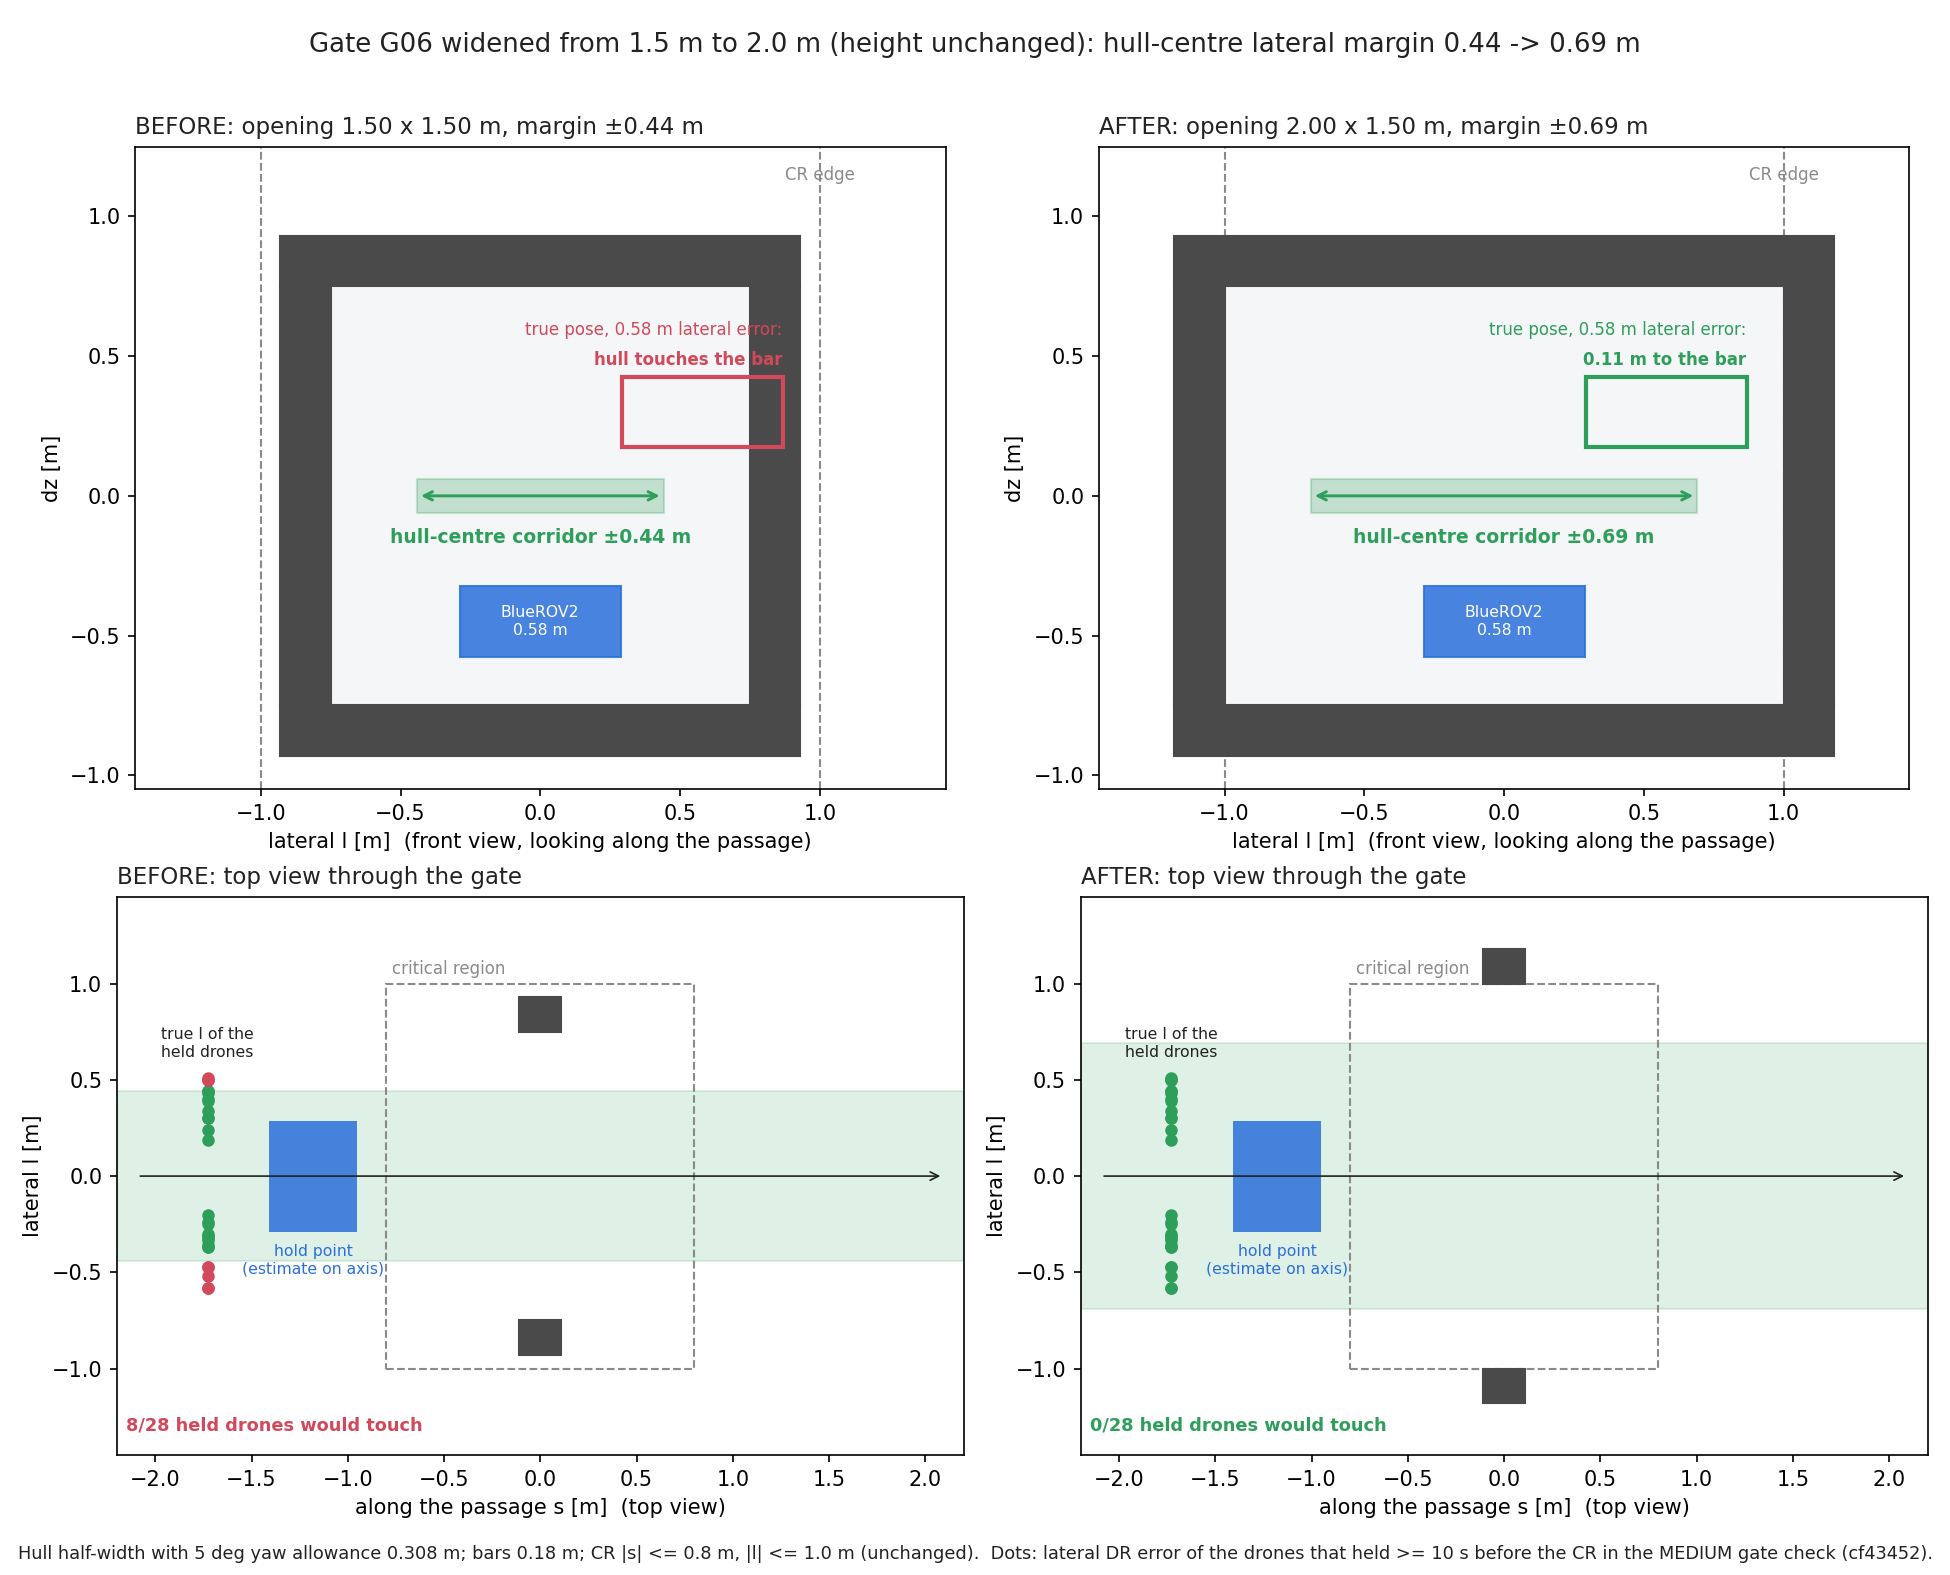
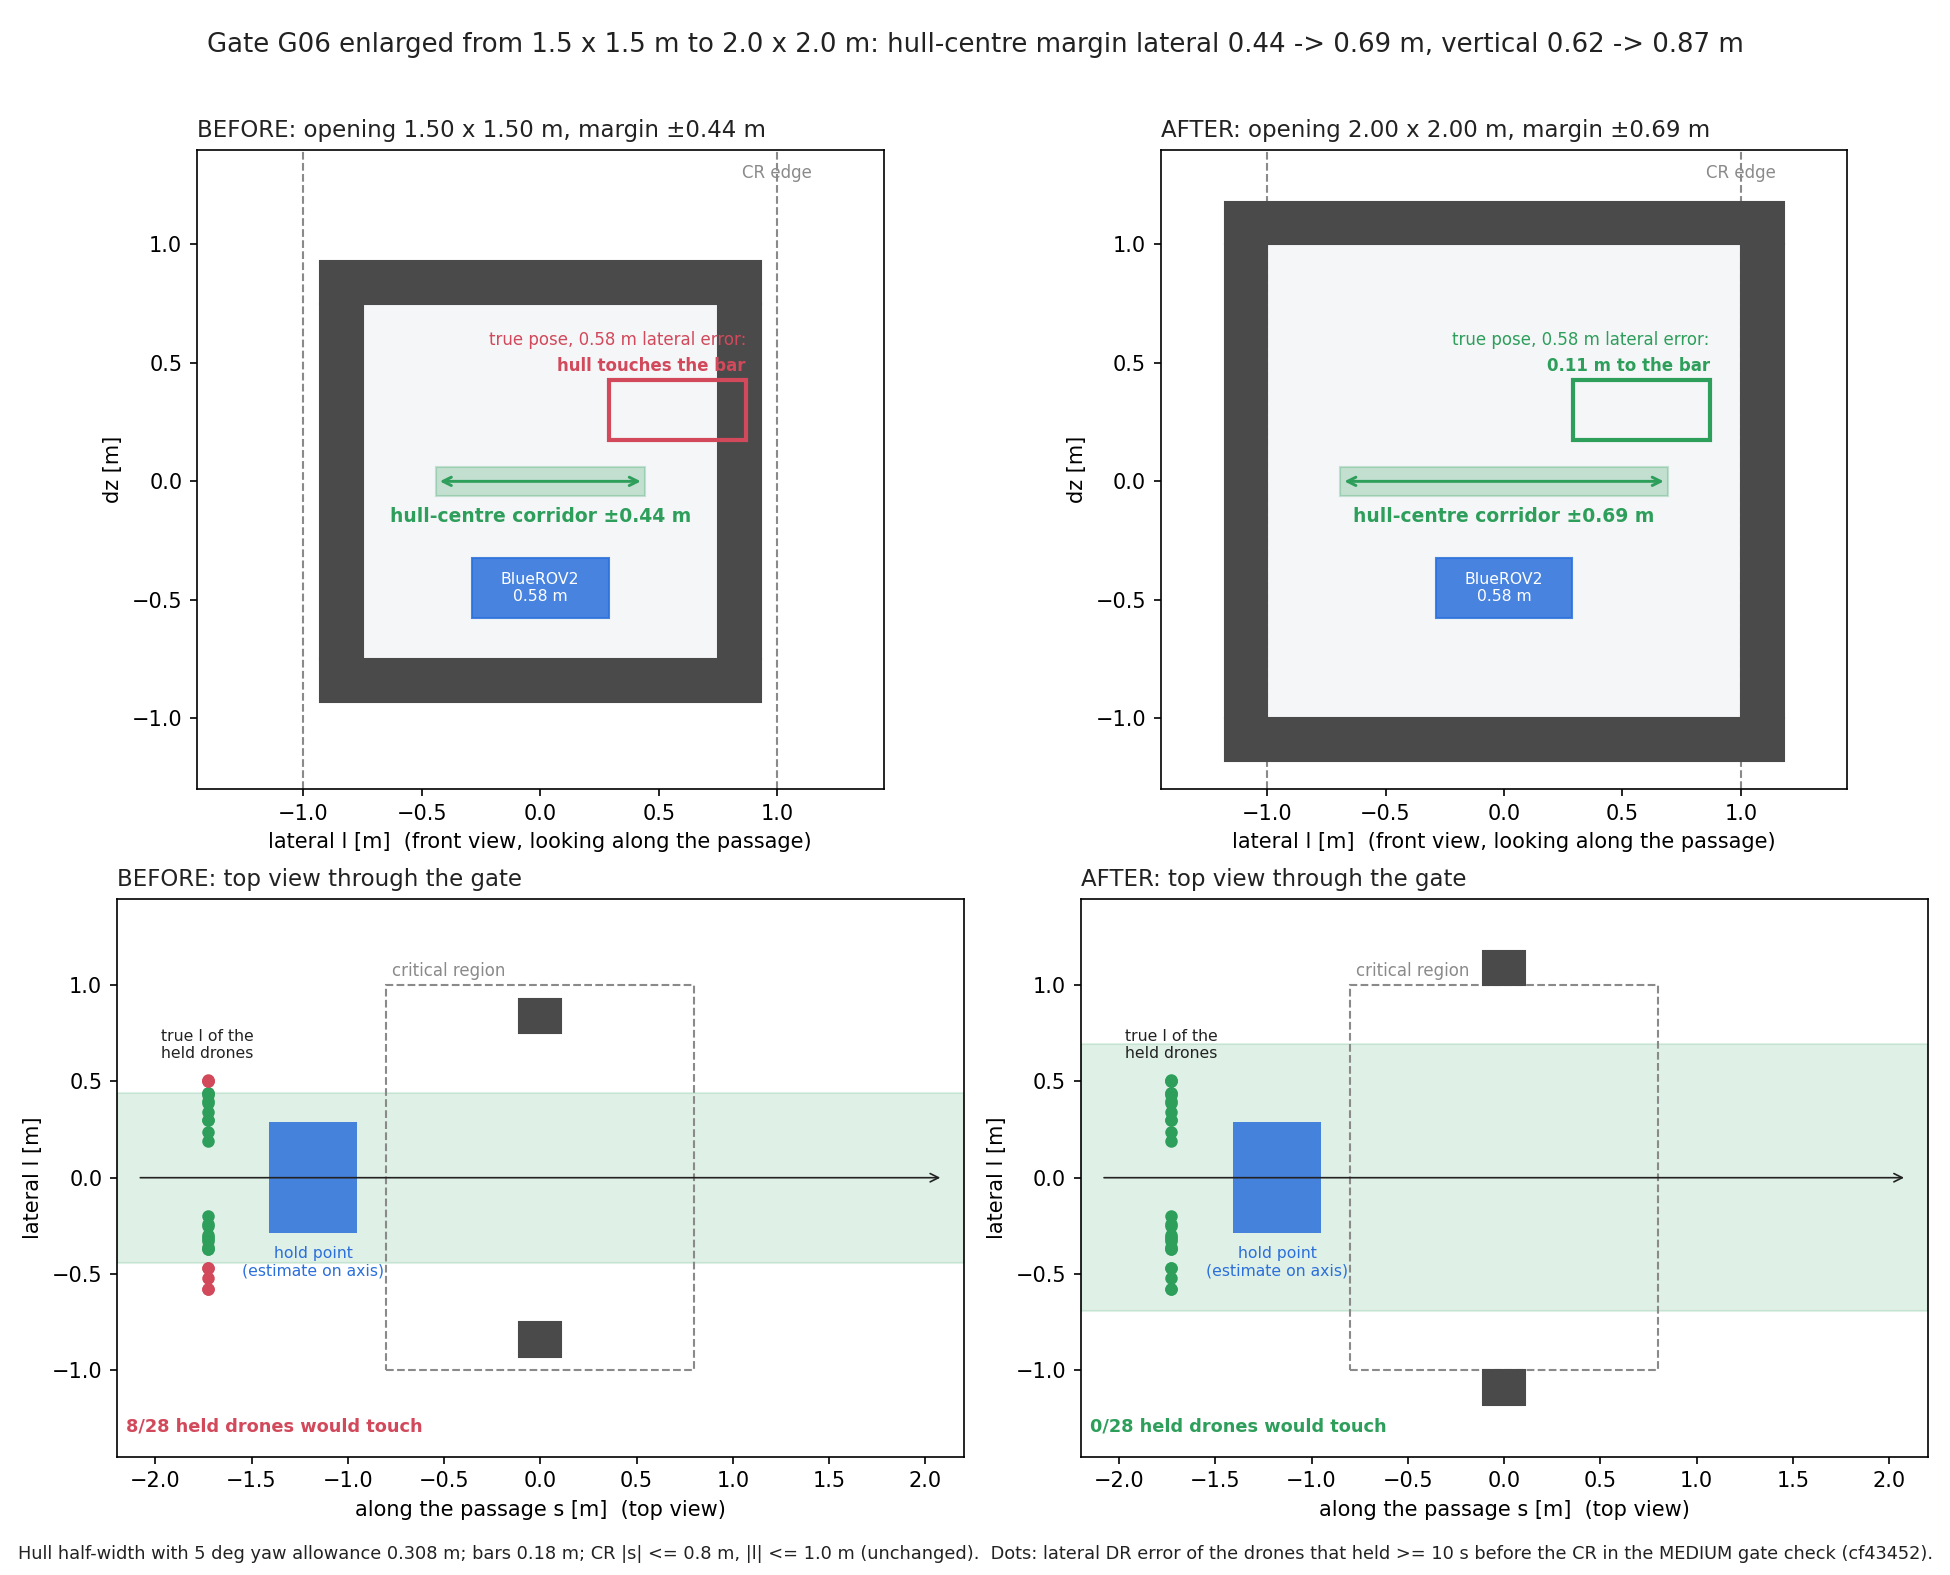
Enlarge gate G06 to 2.0 x 2.0 m and capture it in the simulation
The opening is now 2.0 m high as well: the vertical margin of the hull centre
grows from 0.62 to 0.87 m and the opening ends at both edges of the critical
region (cr_half_width = cr_half_height = 1.0 m), so the mutex geometry stays
unchanged. snap_gate_sim.py renders one HoloOcean frame of the spawned gate with
a BlueROV2 at its centre.

diff --git a/scripts/make_gate_width_figure.py b/scripts/make_gate_width_figure.py
@@ -33,7 +33,7 @@ def _front(ax, g, err, title):
     cw = DEFAULT.gate.cr_half_width
     for x in (-cw, cw):
         ax.axvline(x, color=CR, ls="--", lw=1.0, zorder=1)
-    ax.text(cw, 1.13, "CR edge", color=CR, fontsize=8, ha="center")
+    ax.text(cw, 1.28, "CR edge", color=CR, fontsize=8, ha="center")
     ax.add_patch(Rectangle((-margin, -0.06), 2 * margin, 0.12, color=OK, alpha=0.25, zorder=1))
     ax.annotate("", xy=(margin, 0.0), xytext=(-margin, 0.0), arrowprops=dict(arrowstyle="<->", color=OK, lw=1.4))
     ax.text(0.0, -0.17, f"hull-centre corridor ±{margin:.2f} m", color=OK, fontsize=9, ha="center", weight="bold")
@@ -48,7 +48,7 @@ def _front(ax, g, err, title):
             color=c, fontsize=8, ha="right", weight="bold")
     ax.set_title(title, fontsize=11, color=INK, loc="left")
     ax.set_xlim(-1.45, 1.45)
-    ax.set_ylim(-1.05, 1.25)
+    ax.set_ylim(-1.3, 1.4)
     ax.set_aspect("equal")
     ax.set_xlabel("lateral l [m]  (front view, looking along the passage)")
     ax.set_ylabel("dz [m]")
@@ -97,8 +97,10 @@ def main(out, holds=None):
         m = g.inner_width / 2.0 - HULL_LAT_M
         _front(axs[0, col], g, worst, f"{tag}: opening {g.inner_width:.2f} x {g.inner_height:.2f} m, margin ±{m:.2f} m")
         _top(axs[1, col], g, errs, f"{tag}: top view through the gate")
-    fig.suptitle("Gate G06 widened from 1.5 m to 2.0 m (height unchanged): hull-centre lateral margin "
-                 f"{old.inner_width / 2 - HULL_LAT_M:.2f} -> {new.inner_width / 2 - HULL_LAT_M:.2f} m",
+    fig.suptitle(f"Gate G06 enlarged from {old.inner_width:.1f} x {old.inner_height:.1f} m to {new.inner_width:.1f} x "
+                 f"{new.inner_height:.1f} m: hull-centre margin lateral {old.inner_width / 2 - HULL_LAT_M:.2f} -> "
+                 f"{new.inner_width / 2 - HULL_LAT_M:.2f} m, vertical {old.inner_height / 2 - HULL_HALF[2]:.2f} -> "
+                 f"{new.inner_height / 2 - HULL_HALF[2]:.2f} m",
                  fontsize=12.5, color=INK)
     fig.text(0.5, 0.01, f"Hull half-width with 5 deg yaw allowance {HULL_LAT_M:.3f} m; bars 0.18 m; CR |s| <= "
              f"{DEFAULT.gate.cr_half_len} m, |l| <= {DEFAULT.gate.cr_half_width} m (unchanged).  Dots: lateral DR error "

diff --git a/scripts/snap_gate_sim.py b/scripts/snap_gate_sim.py
@@ -1,0 +1,57 @@
+"""One HoloOcean frame of gate G06 as spawned (arena_bridge.GATE_INNER_SIZE_M), with a BlueROV2 in the opening for scale.
+
+The camera drone holds 4.5 m before the gate on its axis (camera on its nose, looking along the passage); a second
+drone holds at the gate centre.  Low priority, one engine, closed at the end.  Usage: snap_gate_sim.py OUT.png
+"""
+
+import math
+import sys
+
+import cv2
+import numpy as np
+import psutil
+
+from holo_fleet.arena_bridge import HORSESHOE_TRACK, load_arena_gates
+from holo_fleet.sim.holo_env import HoloFleetSim
+from holo_fleet.sim.spec import bench_spec
+
+
+def _nice():
+    for p in [psutil.Process()] + psutil.Process().children(recursive=True):
+        try:
+            p.nice(psutil.BELOW_NORMAL_PRIORITY_CLASS)
+        except psutil.Error:
+            pass
+
+
+def main(out):
+    _nice()
+    g6 = {g.gate_id: g for g in load_arena_gates(HORSESHOE_TRACK)}["G06"]
+    yaw = math.degrees(math.atan2(g6.axis[1], g6.axis[0]))
+    cam = g6.center - 4.5 * np.asarray(g6.axis, float)
+    inside = np.asarray(g6.center, float)
+    spec = bench_spec("snap_gate", [cam, inside], yaws=[yaw, yaw], gate_ids=("G06",), camera_drone=0)
+    spec.chase_offset = (0.35, 0.0, 0.25)
+    sim = HoloFleetSim(spec, headless=True)
+    sim.start()
+    _nice()
+    try:
+        for _ in range(15):
+            sim.pin(sim.names[0], cam, (0, 0, yaw))
+            sim.pin(sim.names[1], inside, (0, 0, yaw))
+            sim.step({n: None for n in sim.names}, 0.1)
+        img = sim.image("ChaseCamera")
+        if img is None:
+            raise RuntimeError("no camera frame")
+        img = np.ascontiguousarray(img[:, :, :3])
+        cv2.putText(img, f"G06 {g6.inner_width:.1f} x {g6.inner_height:.1f} m opening, BlueROV2 at the gate centre "
+                    "(camera 4.5 m before the gate)", (12, img.shape[0] - 14), cv2.FONT_HERSHEY_SIMPLEX, 0.5, (255, 255, 255), 1,
+                    cv2.LINE_AA)
+        cv2.imwrite(out, img)
+        print(out, img.shape)
+    finally:
+        sim.close()
+
+
+if __name__ == "__main__":
+    main(sys.argv[1])

diff --git a/holo_fleet/arena_bridge.py b/holo_fleet/arena_bridge.py
@@ -20,11 +20,11 @@ import numpy as np
 DEFAULT_ARENA_ROOT = Path.home() / "Desktop" / "HoloDroneCompetition"
 HORSESHOE_TRACK = "marine_race_arena/tracks/marine_race_horseshoe_bay.json"
 # Inner opening (width, height) [m] of the gates the scenarios spawn, overriding the track (1.5 x 1.5 m).  G06 is
-# 2.0 m wide: the free lateral margin of the hull centre grows from 0.44 to 0.69 m, above the 0.30-0.58 m lateral
-# dead-reckoning error measured at the gate under MEDIUM (raw_gate_check), and the opening still ends at the edge
-# of the critical region (cr_half_width 1.0 m), so the mutex geometry is unchanged.  The perception map and the
-# spawned bars are built from the same overridden config.
-GATE_INNER_SIZE_M = {"G06": (2.0, 1.5)}
+# 2.0 x 2.0 m: the free lateral margin of the hull centre grows from 0.44 to 0.69 m, above the 0.30-0.58 m lateral
+# dead-reckoning error measured at the gate under MEDIUM (raw_gate_check), the vertical one from 0.62 to 0.87 m, and
+# the opening still ends at the edges of the critical region (cr_half_width = cr_half_height = 1.0 m), so the mutex
+# geometry is unchanged.  The perception map and the spawned bars are built from the same overridden config.
+GATE_INNER_SIZE_M = {"G06": (2.0, 2.0)}
 
 
 def arena_root() -> Path:

diff --git a/tests/test_gate_opening.py b/tests/test_gate_opening.py
@@ -18,7 +18,7 @@ def _side_bar_inner_edges(g):
 
 def test_the_map_has_the_widened_opening():
     g = load_arena_gates(HORSESHOE_TRACK, ["G06"])[0]
-    assert (g.inner_width, g.inner_height) == GATE_INNER_SIZE_M["G06"] == (2.0, 1.5)
+    assert (g.inner_width, g.inner_height) == GATE_INNER_SIZE_M["G06"] == (2.0, 2.0)
     assert np.allclose(_side_bar_inner_edges(g), g.inner_width / 2.0, atol=1e-6)
 
 
@@ -40,5 +40,6 @@ def test_the_track_opening_is_still_available():
 def test_the_opening_ends_at_the_critical_region_and_widens_the_hull_margin():
     g = load_arena_gates(HORSESHOE_TRACK, ["G06"])[0]
     assert g.inner_width / 2.0 <= DEFAULT.gate.cr_half_width + 1e-9    # a drone in the opening is in the CR
+    assert g.inner_height / 2.0 <= DEFAULT.gate.cr_half_height + 1e-9
     assert g.inner_width / 2.0 - HULL_LAT_M > 0.58                     # MEDIUM lateral DR error at the gate
     assert 1.5 / 2.0 - HULL_LAT_M < 0.45

diff --git a/holo_fleet/sim/scenarios.py b/holo_fleet/sim/scenarios.py
@@ -359,7 +359,7 @@ def _gate_mission(name: str, template_name: str, duration: float, current: Curre
 def gate_single(cfg: FleetConfig = DEFAULT) -> Scenario:
     return _gate_mission("gate_single", "triangle", 80.0, _uniform((0.0, -0.05, 0.0)), cfg,
                          title="P2: one at a time through arena gate G06",
-                         desc="3 drones in triangle reach Marine Race Arena gate G06 (only this gate spawned, 2.0 x 1.5 m "
+                         desc="3 drones in triangle reach Marine Race Arena gate G06 (only this gate spawned, 2.0 x 2.0 m "
                               "opening), queue abreast, pass one at a time (left first, sector rule), re-form beyond "
                               "the gate. No communication.",
                          focus="queue relations from sector patterns, CR occupancy belief, occupancy <= 1, entry order")
